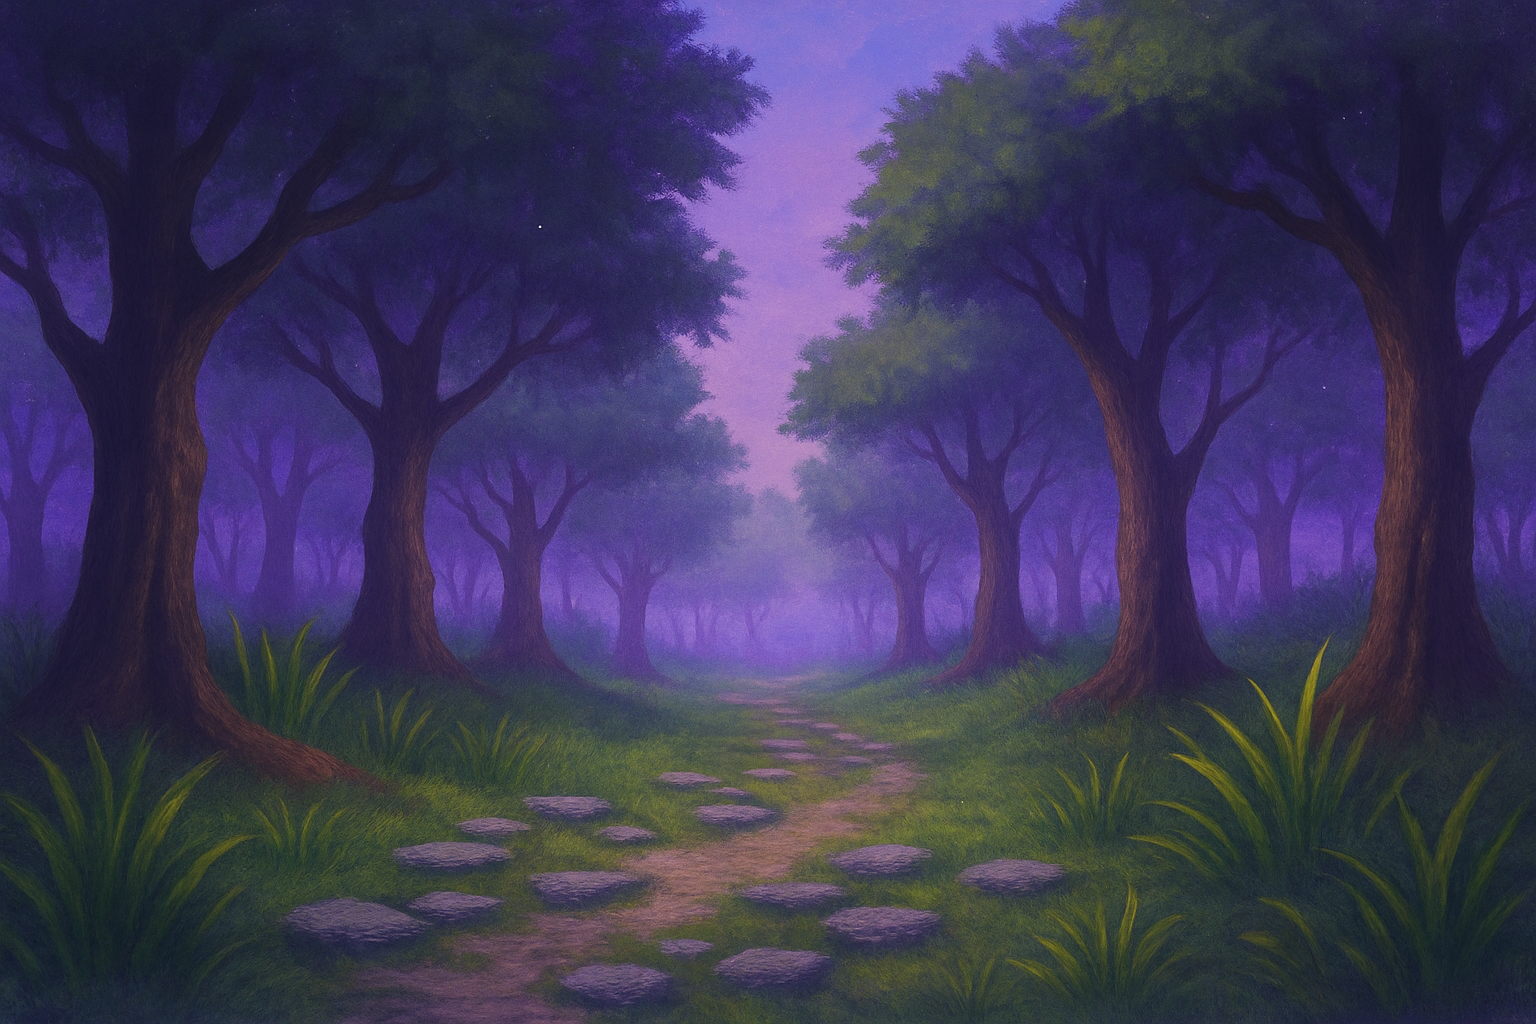
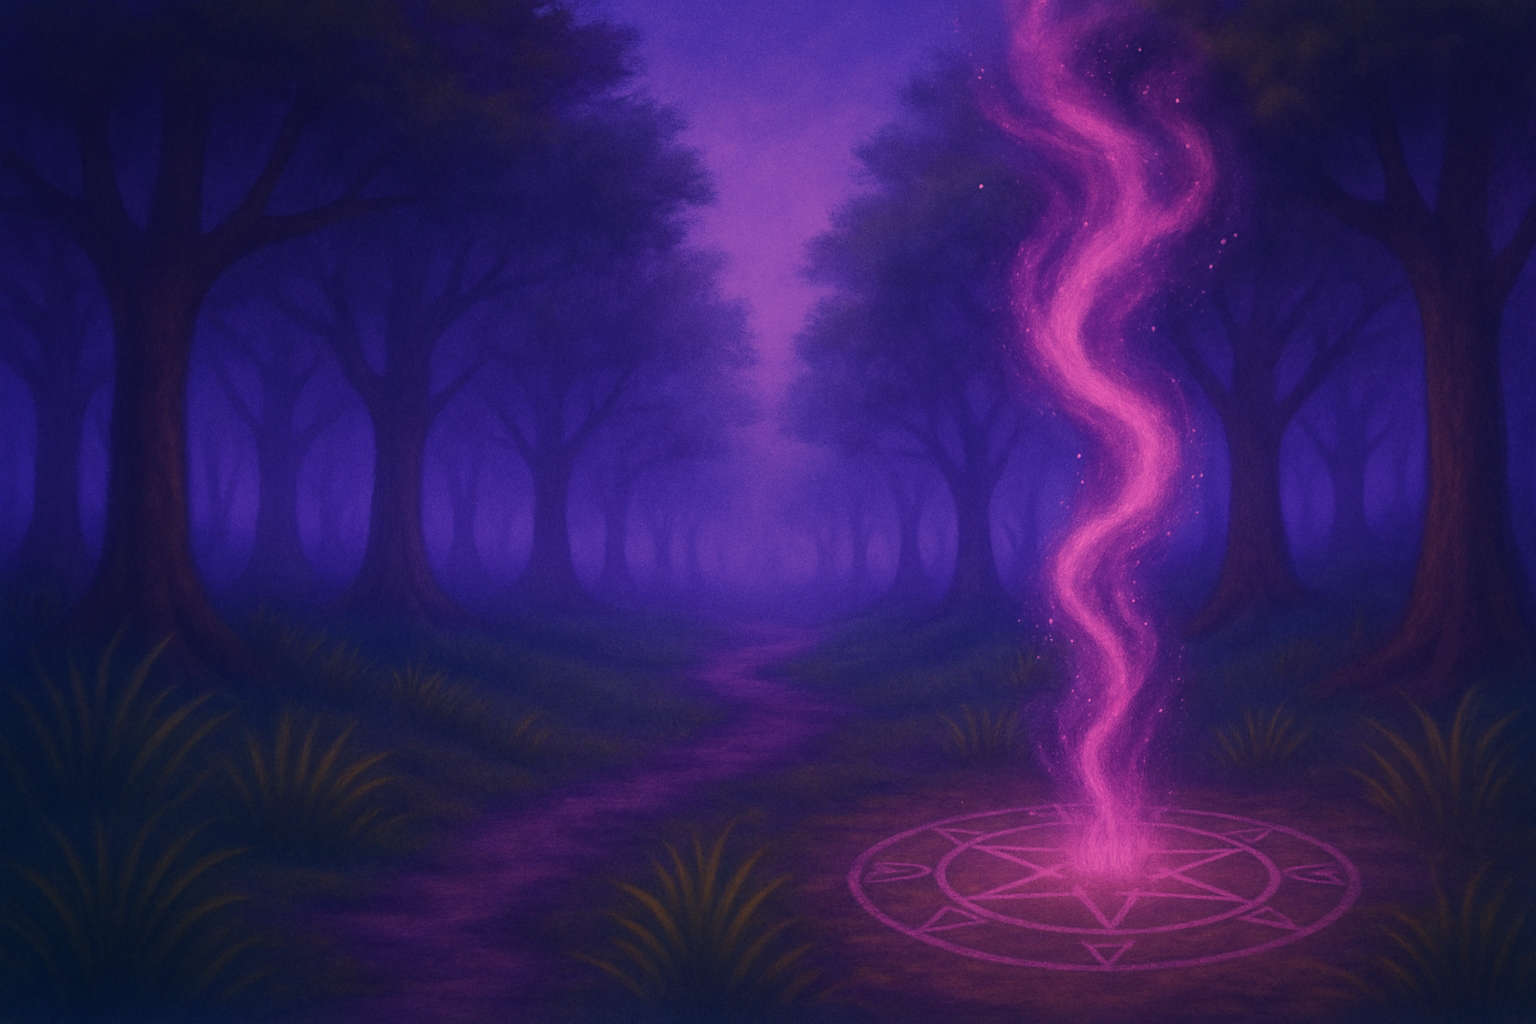
some fixes

diff --git a/prova/Statuegame.js b/prova/Statuegame.js
@@ -96,12 +96,6 @@ export async function loadWizard(scene) {
 
     });
 
-    wizard.traverse(child => {
-  if (child.isBone) {
-    console.log('Bone name:', child.name);
-  }
-});
-
 
     // Aggiungi collider per il mago 
     setupWizardPhysics();
@@ -353,7 +347,7 @@ export function updateInteraction(playerPosition, scene) {
 
 if (checkStatueOrientations() && !thankedPlayer) {
   // Le statue sono corrette e non abbiamo ancora ringraziato
-  dialogueBox.textContent = '🧙♂ Peppino: Grazie, avventuriero. Il tuo gesto non sarà dimenticato.';
+  dialogueBox.textContent = '🛡 Peppino: Grazie. Il tuo gesto non sarà dimenticato.';
   dialogueBox.style.display = 'block';
   isWizardTalking = true;
   thankedPlayer = true;
@@ -368,23 +362,23 @@ if (checkStatueOrientations() && !thankedPlayer) {
 dialogueStep++;
 switch (dialogueStep) {
   case 1:
-    dialogueBox.textContent = '🧙♂ Mago: ...Un’anima persa tra le nebbie? Non è comune vedere viandanti qui.';
+    dialogueBox.textContent = '🛡 Guardiano: ...Un’anima persa tra le nebbie? Non è comune vedere viandanti qui.';
     isWizardTalking = true;
     break;
   case 2:
-    dialogueBox.textContent = '🧝♂ Avventuriero: Cerco una via d’uscita. Sono alla ricerca della Collana del Vento.';
+    dialogueBox.textContent = '🧙♀ Strega: Cerco una via d’uscita. Sono alla ricerca della Collana del Vento.';
     isWizardTalking = false;
     break;
   case 3:
-    dialogueBox.textContent = '🧙♂ Peppino: È un oggetto antico, legato a forze dimenticate. Io sono Peppino, guardiano di ciò che resta.';
+    dialogueBox.textContent = '🛡 Peppino: È un oggetto antico, legato a forze dimenticate. Io sono Peppino, guardiano di ciò che resta.';
     isWizardTalking = true;
     break;
   case 4:
-    dialogueBox.textContent = '🧙♂ Peppino: Ma non tutto si conquista con la forza. I Venti devono tornare a parlare prima.';
+    dialogueBox.textContent = '🛡 Peppino: Ma non tutto si conquista con la forza. I Venti devono tornare a parlare prima.';
     isWizardTalking = true;
     break;
   case 5:
-    dialogueBox.textContent = '🧙♂ Peppino: Orienta i Guardiani come vuole la brezza. Solo allora, la collana sarà tua.';
+    dialogueBox.textContent = '🛡 Peppino: Orienta i Guardiani come vuole la brezza. Solo allora, la collana sarà tua.';
     isWizardTalking = true;
     break;
   default:
@@ -416,7 +410,7 @@ if (!dialogueVisible) {
     promptState.text = '📜 Premi F per leggere l\'incisione';
   } else if (nearWizard) {
     promptState.active = true;
-    promptState.text = '🧙 Premi F per parlare con il mago';
+    promptState.text = '🧙 Premi F per parlare con il guardiano';
   }
 }
 

diff --git a/prova/beeGame.js b/prova/beeGame.js
@@ -13,7 +13,7 @@ let beeMixer;
 let challengeStarted = false;
 let challengeCompleted = false;
 let timer = 0;
-let maxTime = 30;
+let maxTime = 20;
 let activeItems = [];
 let beeTalked = false;
 let inDialogue = false;
@@ -85,12 +85,15 @@ export async function loadBeeGame(scene) {
   timerBox.style.top = '8%';
   timerBox.style.left = '50%';
   timerBox.style.transform = 'translateX(-50%)';
-  timerBox.style.color = 'white';
-  timerBox.style.fontSize = '40px';
+  timerBox.style.color = '#ffffff';
+  timerBox.style.fontSize = '50px';
   timerBox.style.fontWeight = 'bold';
-  timerBox.style.backgroundColor = 'rgba(0, 0, 0, 0.7)';
+  timerBox.style.backgroundColor = 'rgba(0, 0, 0, 0.75)';
   timerBox.style.padding = '16px 24px';
+  timerBox.style.border = '2px solid #ffcc00';
   timerBox.style.borderRadius = '12px';
+  timerBox.style.textShadow = '2px 2px 4px #000';
+  timerBox.style.boxShadow = '0 0 10px #ffcc00aa';
   timerBox.style.display = 'none';
   timerBox.style.zIndex = '1000';
   document.body.appendChild(timerBox);
@@ -103,7 +106,7 @@ export async function loadBeeGame(scene) {
   counterBox.style.left = '50%';
   counterBox.style.transform = 'translateX(-50%)';
   counterBox.style.color = '#ffcc00';
-  counterBox.style.fontSize = '30px';
+  counterBox.style.fontSize = '40px';
   counterBox.style.fontWeight = 'bold';
   counterBox.style.backgroundColor = 'rgba(0, 0, 0, 0.7)';
   counterBox.style.padding = '12px 20px';
@@ -272,7 +275,7 @@ function showBeeDialogueLine(scene) {
 
   switch (dialogueStep) {
   case 0:
-    text = '🧝♂ Avventuriero: Un\'ape! Perfetto, magari ha del miele...';
+    text = '🧙♀ Strega: Un\'ape! Perfetto, magari ha del miele...';
     break;
   case 1:
     text = '🐝 Ape: Zzzzz... EH?! Chi osa disturbarmi?! Oh, un altro bipede...';
@@ -281,7 +284,7 @@ function showBeeDialogueLine(scene) {
     text = '🐝 Ape: Lascia che indovini: vuoi il Miele Dorato! Tutti lo vogliono. Nessuno lo merita!';
     break;
   case 3:
-    text = '🧝♂ Avventuriero: Non voglio litigare, ma sono disposto a tutto per quel miele.';
+    text = '🧙♀ Strega: Non voglio litigare, ma sono disposto a tutto per quel miele.';
     break;
   case 4:
     text = '🐝 Rinnah: Io sono Rinnah, Regina della Radura, Protrettrice del Nettare! E no, non lo do a chiunque!';

diff --git a/prova/GameState.js b/prova/GameState.js
@@ -5,26 +5,49 @@ const totalItems = 3;
 let counterElement = null;
 
 export function initGameState() {
-  // Crea il contatore in alto a sinistra
+  // Carica Google Font (es. Cinzel)
+  const fontLink = document.createElement('link');
+  fontLink.href = 'https://fonts.googleapis.com/css2?family=Cinzel:wght@600&display=swap';
+  fontLink.rel = 'stylesheet';
+  document.head.appendChild(fontLink);
+
   counterElement = document.createElement('div');
   counterElement.id = 'itemCounter';
   counterElement.style.position = 'absolute';
   counterElement.style.top = '20px';
   counterElement.style.left = '20px';
-  counterElement.style.color = 'white';
-  counterElement.style.fontSize = '50px';
-  counterElement.style.fontFamily = 'Georgia, serif';
+  counterElement.style.padding = '10px 20px';
+  counterElement.style.background = 'rgba(0, 0, 0, 0.5)';
+  counterElement.style.borderRadius = '10px';
+  counterElement.style.color = '#FFD700';  // oro
+  counterElement.style.fontSize = '40px';
+  counterElement.style.fontFamily = "'Cinzel', serif";
   counterElement.style.textShadow = '2px 2px 5px black';
+  counterElement.style.transition = 'transform 0.2s ease';
   counterElement.innerText = `Oggetti raccolti: 0/${totalItems}`;
   document.body.appendChild(counterElement);
 }
+
 
 export function collectItem() {
   collectedItems = Math.min(collectedItems + 1, totalItems);
   if (counterElement) {
     counterElement.innerText = `Oggetti raccolti: ${collectedItems}/${totalItems}`;
+    
+    // Effetto animato
+    counterElement.style.transform = 'scale(1.2)';
+    setTimeout(() => {
+      counterElement.style.transform = 'scale(1)';
+    }, 200);
   }
+
+  if (collectedItems >= totalItems) {
+  counterElement.style.color = '#00FF00'; // verde brillante
+  counterElement.innerText = '✅ Tutti gli oggetti raccolti!';
 }
+
+}
+
 
 export function hasCollectedAll() {
   return collectedItems >= totalItems;

diff --git a/prova/fireGame.js b/prova/fireGame.js
@@ -54,7 +54,8 @@ export function createCauldrons(scene) {
     new THREE.BoxGeometry(1.5, 3, 0.1),
     new THREE.MeshStandardMaterial({ color: 0x00ffff, transparent: true, opacity: 0 })
   );
-  magicDoor.position.set(58, 1.5, 27);
+  magicDoor.position.set(52, 1, -1);
+  magicDoor.rotation.y = Math.PI / 2;
   magicDoor.visible = false;
   scene.add(magicDoor);
 }
@@ -207,7 +208,7 @@ for (let i = 0; i < steps; i++) {
 export function updateFireEffects() {
   const delta = fireflyClock.getDelta();
 
-  // 🔥 Update sprite flames
+  // Update sprite flames
   for (let i = 0; i < fireParticles.length; i++) {
     const sprites = fireParticles[i];
     if (!sprites || sprites.length === 0) continue;
@@ -263,7 +264,11 @@ export function checkDoorCollision(playerPosition) {
     overlay.style.left = '0';
     overlay.style.width = '100vw';
     overlay.style.height = '100vh';
-    overlay.style.backgroundColor = 'black';
+    overlay.style.backgroundImage = 'url("assets/images/end.png")';
+    overlay.style.backgroundSize = 'cover';
+    overlay.style.backgroundPosition = 'center';
+    overlay.style.backgroundRepeat = 'no-repeat';
+
     overlay.style.zIndex = '999';
     overlay.style.display = 'flex';
     overlay.style.flexDirection = 'column';
@@ -284,7 +289,10 @@ export function checkDoorCollision(playerPosition) {
     // Testo finale narrativo
     const text = document.createElement('div');
     text.innerText = 'Sei fuggito dal mondo delle Nebbie!\n\nMa le cicatrici della magia oscura non svaniscono.\nLa tua avventura nel mondo delle Ombre è appena cominciata...';
-    text.style.fontSize = '32px';
+    text.style.fontSize = '36px';
+    text.style.lineHeight = '1.6';
+    text.style.textShadow = '2px 2px 8px #000000';
+
     text.style.textAlign = 'center';
     text.style.whiteSpace = 'pre-line';
     text.style.maxWidth = '80%';

diff --git a/prova/lighting.js b/prova/lighting.js
@@ -22,11 +22,11 @@ scene.add(directionalLight.target);
 
   directionalLight.shadow.mapSize.set(4096, 4096);
   directionalLight.shadow.camera.near = 1;
-  directionalLight.shadow.camera.far = 150;
-  directionalLight.shadow.camera.left = -150;
-  directionalLight.shadow.camera.right = 150;
-  directionalLight.shadow.camera.top = 150;
-  directionalLight.shadow.camera.bottom = -150;
+  directionalLight.shadow.camera.far = 140;
+  directionalLight.shadow.camera.left = -140;
+  directionalLight.shadow.camera.right = 140;
+  directionalLight.shadow.camera.top = 140;
+  directionalLight.shadow.camera.bottom = -140;
   directionalLight.shadow.bias = -0.0001;  
   directionalLight.shadow.radius = 0; 
 

diff --git a/prova/MushroomRiddle.js b/prova/MushroomRiddle.js
@@ -266,7 +266,7 @@ function showDialogueLine() {
 
   switch (dialogueStep) {
     case 0:
-      text = '🧝♀ Avventuriero: ...Siete tre funghi impilati sotto un trench?!';
+      text = '🧙♀ Strega: ...Siete tre funghi impilati sotto un trench?!';
       break;
     case 1:
       text = '🍄???: SILENZIO! Noi siamo... IL FUNGONE!';
@@ -291,7 +291,7 @@ function showDialogueLine() {
       armsActive = true;
       break;
     case 5:
-      text = '🧝♀ Avventuriero: Be io avrei proprio bisogno di un tentacolo.';
+      text = '🧙♀ Strega: Be io avrei proprio bisogno di un tentacolo.';
       armsActive = false;
       break;
     case 6:

diff --git a/prova/main.js b/prova/main.js
@@ -58,8 +58,8 @@ scene.background = new THREE.Color(0x8e80aa);
 
 const clock = new THREE.Clock();
 
-const camera = new THREE.PerspectiveCamera(45, window.innerWidth / window.innerHeight, 1, 500);
-camera.position.set(0, 3, -6);
+const camera = new THREE.PerspectiveCamera(40, window.innerWidth / window.innerHeight, 1, 500);
+//camera.position.set(0, 3, -6);
 
 const renderer = new THREE.WebGLRenderer({ antialias: true });
 renderer.setSize(window.innerWidth, window.innerHeight);
@@ -445,7 +445,6 @@ window.addEventListener('keydown', (event) => {
 });
 
 // === AVVIO ===
-
 init().then(() => {
    animate();
 });

diff --git a/prova/characterController.js b/prova/characterController.js
@@ -29,7 +29,7 @@ export class CharacterController {
         this.characterRadius = 0.3;
         this.groundCheckDistance = 0.1;
         this.moveSpeed = 4; // Velocità di camminata
-        this.runSpeedMultiplier = 2; // Moltiplicatore per la corsa
+        this.runSpeedMultiplier = 4; // Moltiplicatore per la corsa
         this.rotationSpeed = 0.1; // Velocità di rotazione del personaggio
 
         // Visualizzazione debug

diff --git a/prova/Weather.js b/prova/Weather.js
@@ -196,7 +196,7 @@ export function initSpores(scene, center, count = 150) {
   if (sporesInitialized) return;
   fungusZoneCenter.copy(center);
 
-  const geometry = new THREE.SphereGeometry(0.04, 6, 6);
+  const geometry = new THREE.SphereGeometry(0.02, 3, 3);
   const material = new THREE.MeshBasicMaterial({
     color: 0x88ccff,
     transparent: true,

diff --git a/prova/thirdPersonCamera.js b/prova/thirdPersonCamera.js
@@ -7,8 +7,8 @@ export class ThirdPersonCamera {
     this.target = target;
     
     // Configurazione telecamera
-    this.distance = 8;
-    this.height = 4;
+    this.distance = 6;
+    this.height = 3;
     this.rotationSpeed = 0.003;
     this.followSpeed = 0.1;
     this.heightOffset = 2;
